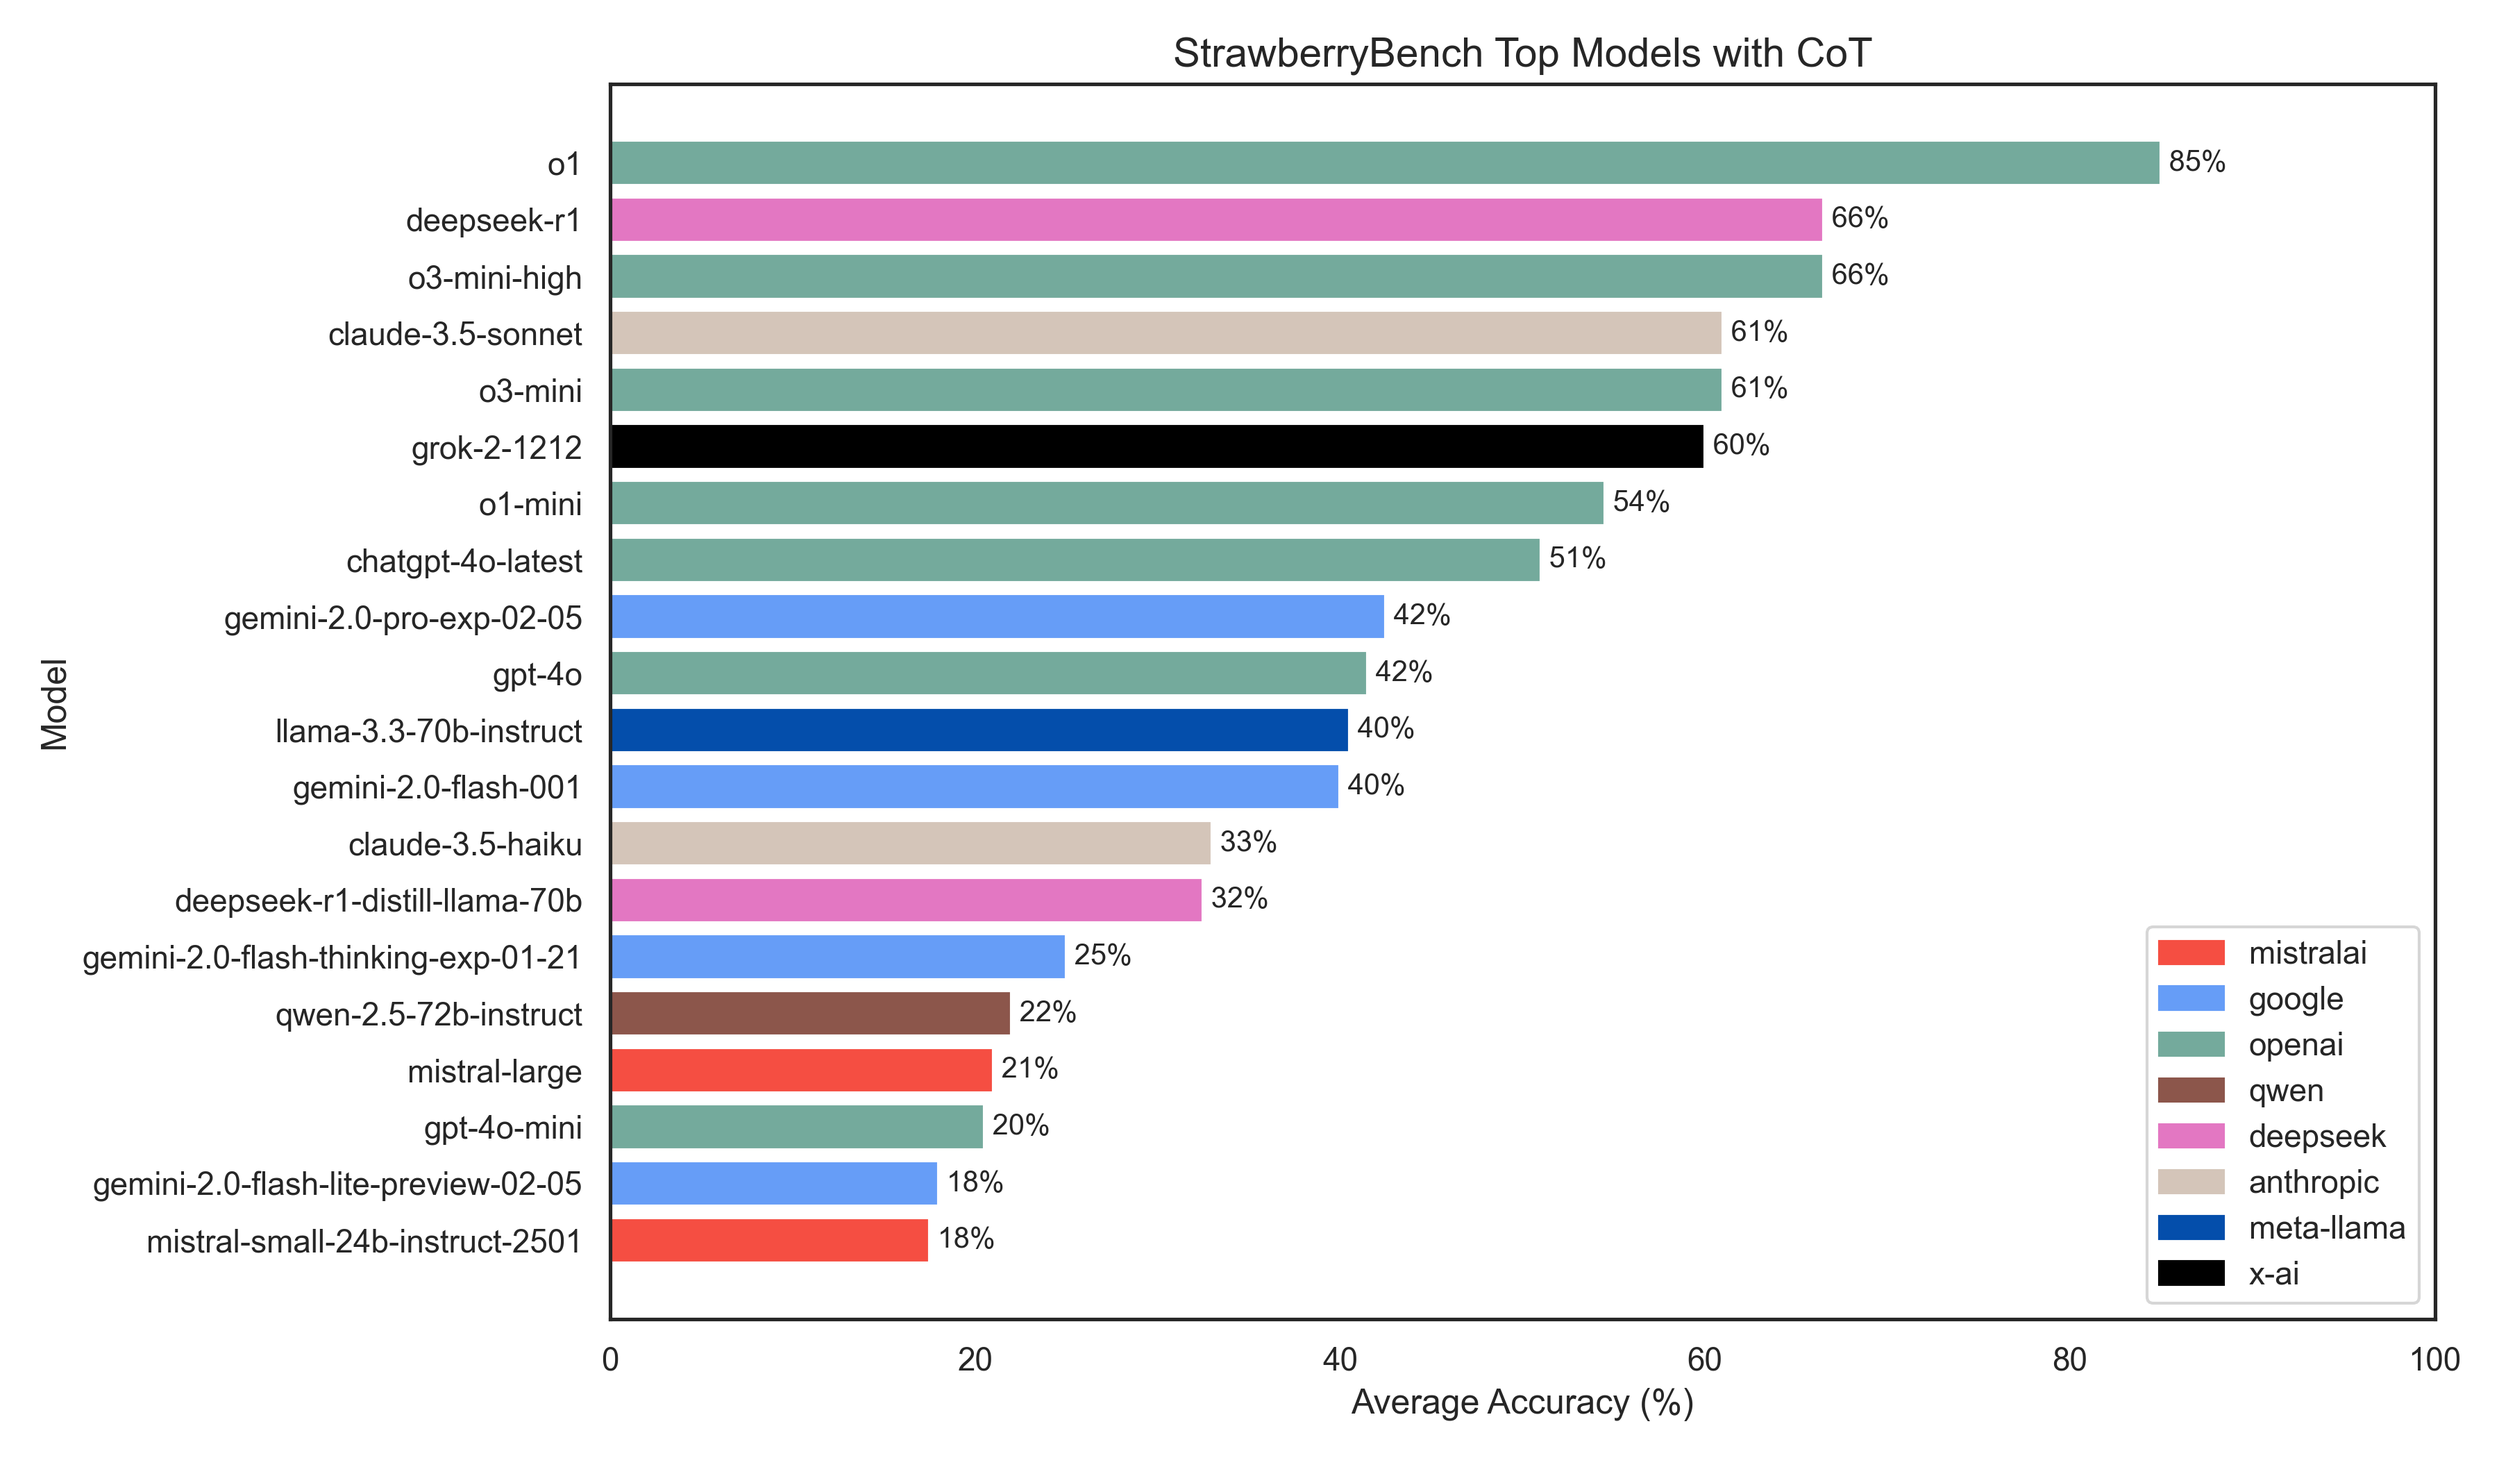
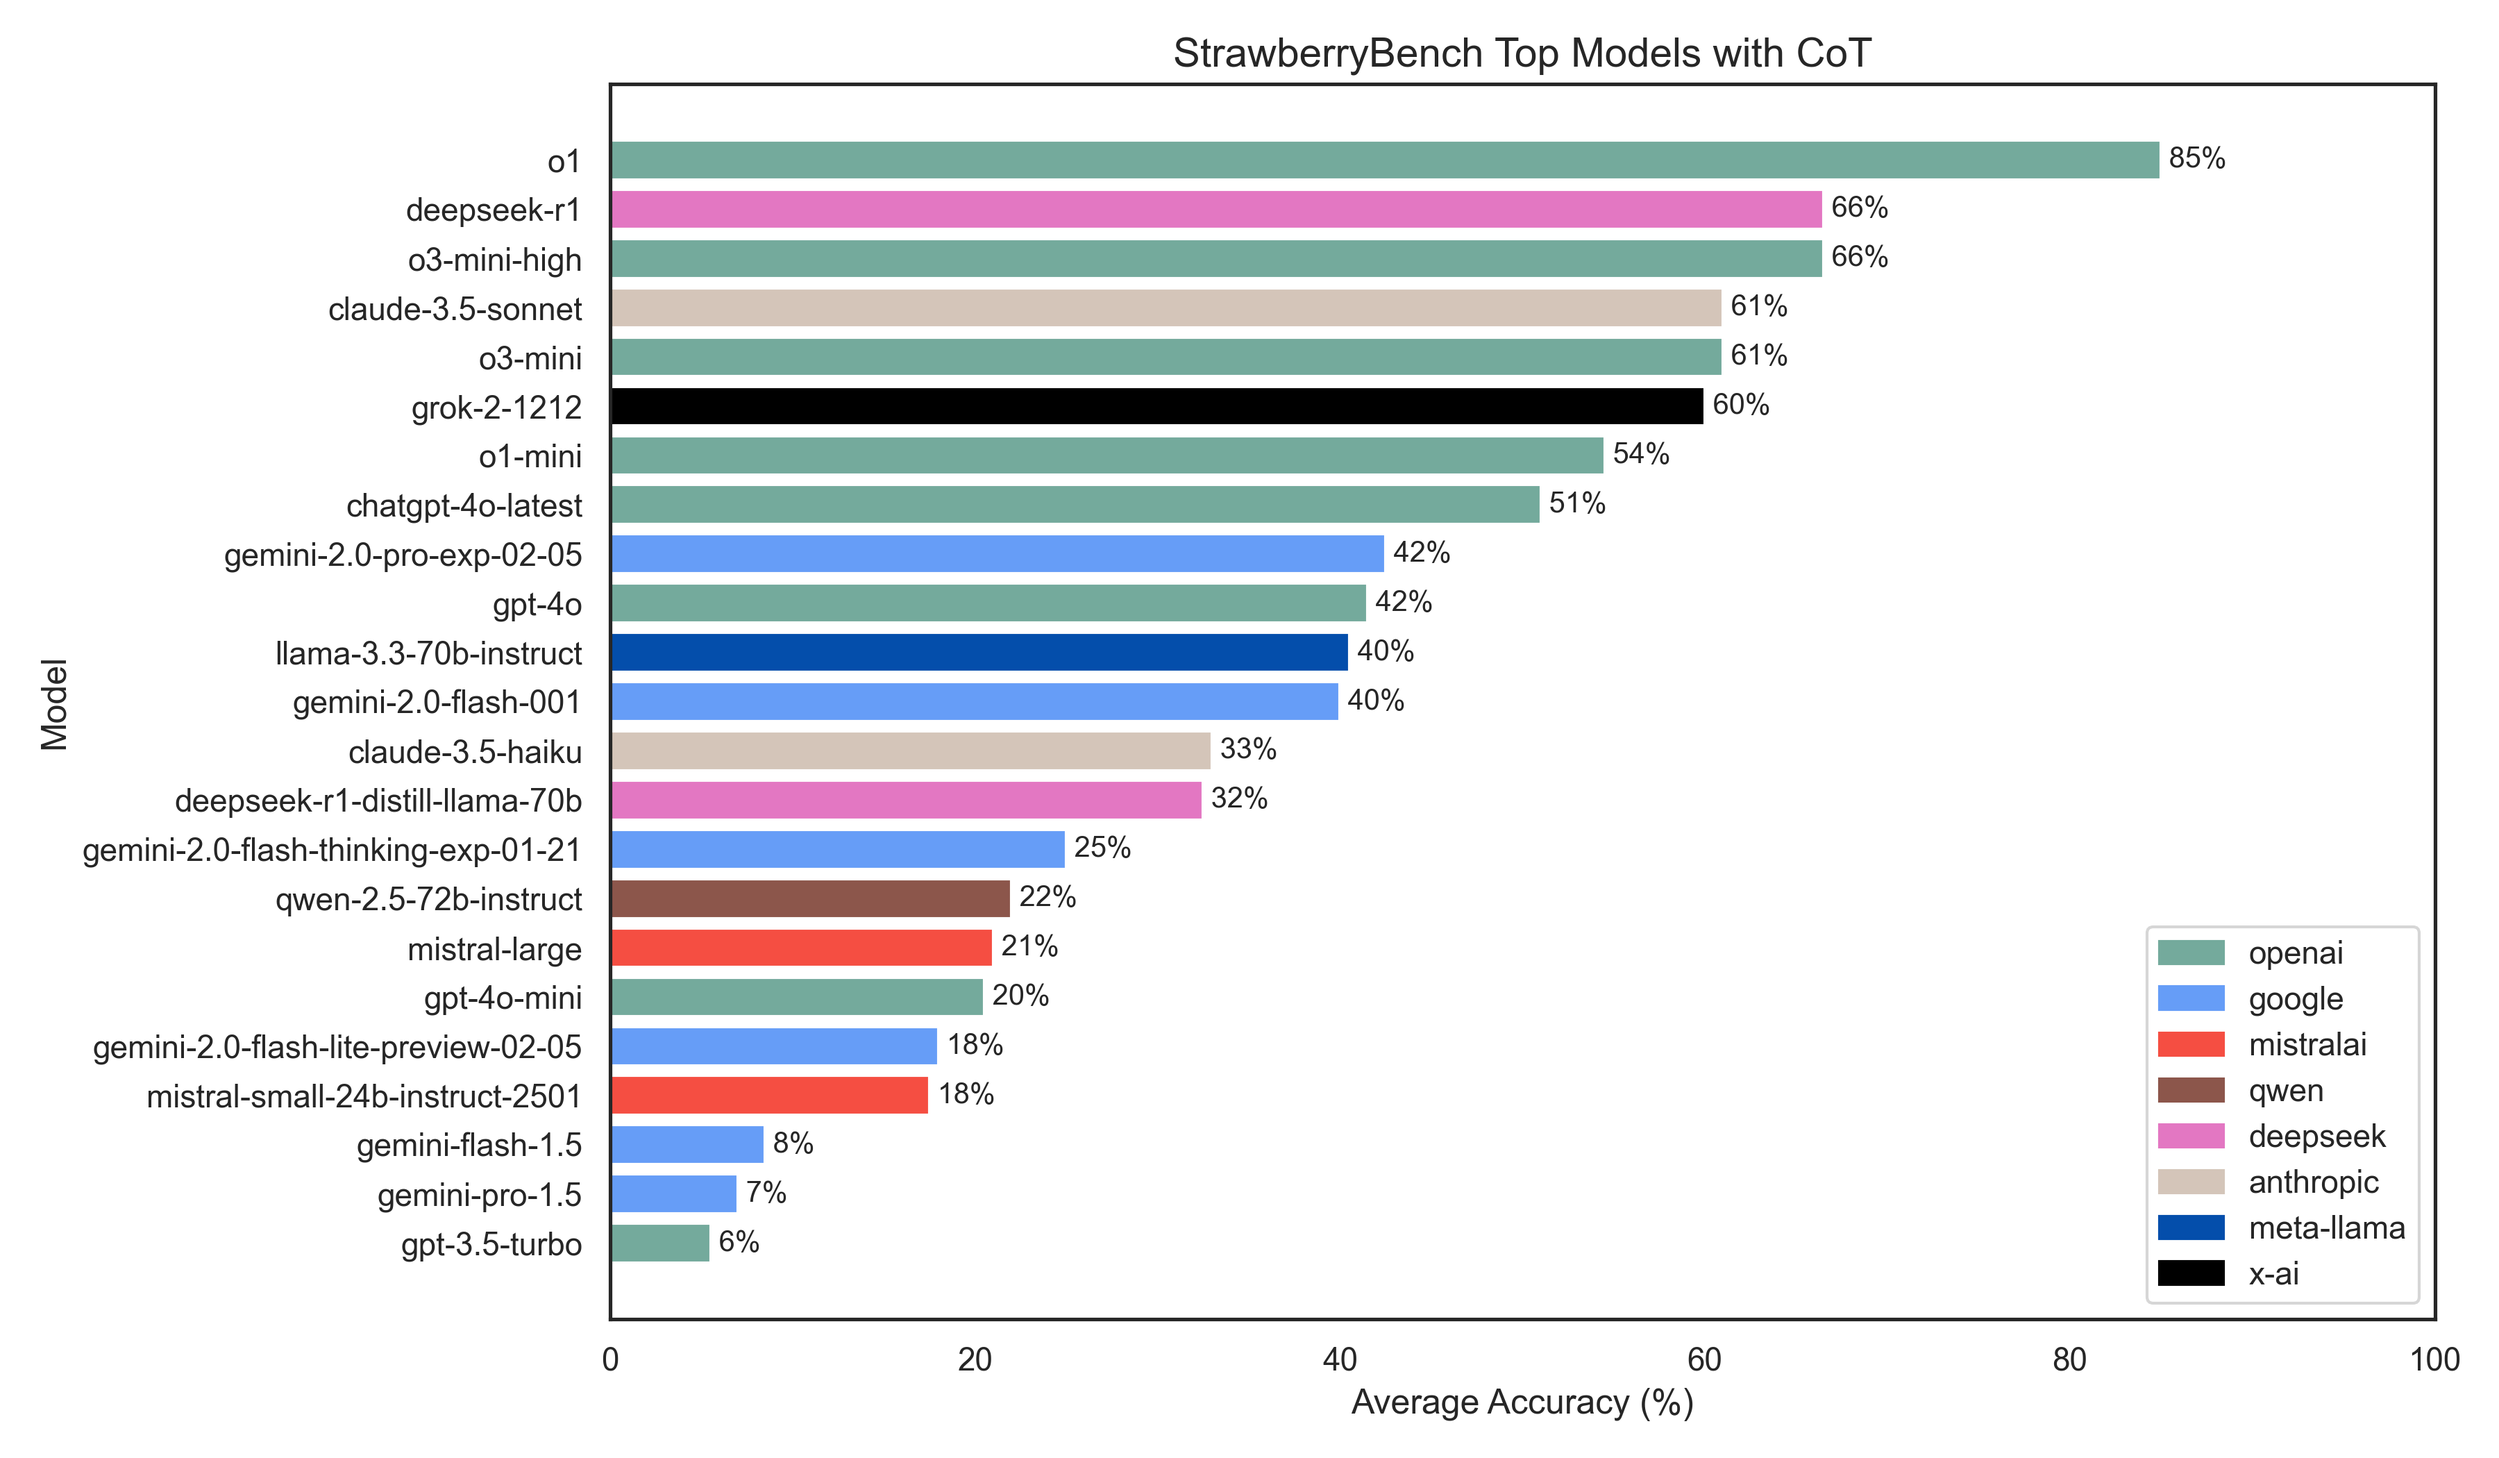
Update README.md

diff --git a/plot.py b/plot.py
@@ -33,7 +33,6 @@ def plot_heatmap(pivot_df, title, save_path=None, dpi=300):
 
 
 def plot_bar_chart(df, title, save_path=None, dpi=300):
-    # Define provider colors
     provider_colors = {
         'openai': '#74AA9C',
         'anthropic': '#D4C5B9',
@@ -45,26 +44,22 @@ def plot_bar_chart(df, title, save_path=None, dpi=300):
         'deepseek': '#E377C2',
     }
 
-    # Group by model to calculate the average accuracy
     grouped = df.groupby("model").agg(
         average_accuracy=("accuracy", "mean"),
         provider=("provider", "first")
     ).reset_index()
 
-    # Select the top 20 models by average accuracy
-    top_models = grouped.sort_values("average_accuracy", ascending=False).head(20)[::-1]
+    top_models = grouped.sort_values("average_accuracy", ascending=False)[::-1]
     colors = [provider_colors.get(provider.lower(), "#333333") for provider in top_models["provider"]]
 
     plt.figure(figsize=(12, 7))
     ax = plt.gca()
     bars = ax.barh(top_models["model"], top_models["average_accuracy"], color=colors)
 
-    # Add accuracy labels on each bar
     for bar in bars:
         width = bar.get_width()
         ax.text(width, bar.get_y() + bar.get_height() / 2, f' {width:.0f}%', va='center', ha='left', fontsize=10)
 
-    # Create legend
     legend_handles = [
         mpatches.Patch(color=provider_colors.get(provider.lower(), "#333333"), label=provider)
         for provider in top_models["provider"].unique()
@@ -85,15 +80,12 @@ def plot_bar_chart(df, title, save_path=None, dpi=300):
 def plot_all(json_filename, save_plots=False, dpi=300):
     df = pd.read_json(json_filename)
 
-    # Split provider and model from the 'model' field
     df["provider"] = df["model"].apply(lambda x: x.split("/")[0])
     df["model"] = df["model"].apply(lambda x: x.split("/")[-1])
 
-    # Split data based on whether chain-of-thought (CoT) is used
     df_cot = df[df["cot"]]
     df_nocot = df[~df["cot"]]
 
-    # Create a pivot table for heatmaps
     def create_pivot(sub_df):
         pivot = sub_df.pivot(index="model", columns="additional_rs", values="accuracy")
         pivot["average"] = pivot.mean(axis=1)
@@ -101,7 +93,6 @@ def plot_all(json_filename, save_plots=False, dpi=300):
 
     sns.set_theme(style="white")
 
-    # Plot for CoT records if available
     if not df_cot.empty:
         pivot_cot = create_pivot(df_cot)
         heatmap_save_path = "assets/heatmap_cot.png" if save_plots else None
@@ -111,7 +102,6 @@ def plot_all(json_filename, save_plots=False, dpi=300):
     else:
         print("No records with CoT. Skipping CoT plots.")
 
-    # Plot for non-CoT records if available
     if not df_nocot.empty:
         pivot_nocot = create_pivot(df_nocot)
         heatmap_save_path = "assets/heatmap_nocot.png" if save_plots else None

diff --git a/config.py b/config.py
@@ -56,8 +56,8 @@ MODELS = [
     # { "name": "google/gemini-1.5-pro-001", "provider": "google_vertex", "cot": False, "rate_limit": 30 },
     # { "name": "google/gemini-1.5-pro-001", "provider": "google_vertex", "cot": True, "rate_limit": 30 },
 
-    { "name": "google/gemini-2.0-flash-001", "provider": "google_vertex", "cot": False, "rate_limit": 500 },
-    { "name": "google/gemini-2.0-flash-001", "provider": "google_vertex", "cot": True, "rate_limit": 500 },
+    # { "name": "google/gemini-2.0-flash-001", "provider": "google_vertex", "cot": False, "rate_limit": 500 },
+    # { "name": "google/gemini-2.0-flash-001", "provider": "google_vertex", "cot": True, "rate_limit": 500 },
 
     # { "name": "google/gemini-2.0-flash-thinking-exp-01-21", "provider": "google_vertex", "cot": False, "rate_limit": 5 },
     # { "name": "google/gemini-2.0-flash-thinking-exp-01-21", "provider": "google_vertex", "cot": True, "rate_limit": 5 },
@@ -71,6 +71,6 @@ MODELS = [
 
 # The additional characters to insert in the word
 ADDITIONAL_RS = range(0, 10)
-ITERATIONS = 20
 
+ITERATIONS = 20
 TEMPERATURE = 1.0

diff --git a/client_google_vertex.py b/client_google_vertex.py
@@ -1,3 +1,4 @@
+import os
 import vertexai
 from vertexai.generative_models import GenerativeModel, GenerationConfig
 from retry import retry
@@ -9,8 +10,8 @@ class GoogleVertexClient:
             model = model.replace("google/", "")
 
         vertexai.init(
-            project='test-whisper-405815',
-            location='us-central1',
+            project=os.getenv("VERTEX_PROJECT_ID"),
+            location=os.getenv("VERTEX_LOCATION"),
         )
 
         self.rate_limiter = rate_limiter

diff --git a/README.md b/README.md
@@ -1,4 +1,4 @@
-# 🍓🍓🍓 StrawberryBench 🍓🍓🍓
+# 🍓 StrawberryBench 🍓
 
 StrawberryBench evaluates language models on a basic reasoning task: counting the `r` characters in a word `strawberry`.
 
@@ -32,39 +32,38 @@ While AI models excel at complex tasks, this benchmark highlights gaps in fundam
 
 ## 🍓 Observations
 
-- Reasoning models dominate the benchmark.
-- Chain-of-thought boosts performance in non-reasoning models.
-- Many models applied CoT without explicit prompting (GPT-4o+, Gemini 2.0 Flash, Claude, Mistral, Llama).
-- Models that skipped CoT and gave direct answers performed the worst (Gemini 1.5 Flash/Pro, Grok 2, Qwen 2.5).
-- StrawberryBench results align with other public benchmarks.
-  
+- Reasoning models lead the benchmark.
+- Chain-of-thought often improves results but not uniformly.
+- Many models applied CoT without explicit instructions (GPT-4o+, Gemini 2.0 Flash, Claude, Mistral, Llama).
+- Models that skipped CoT and gave direct answers tended to perform worse (Gemini 1.5 Flash/Pro, Grok 2, Qwen 2.5).
+- StrawberryBench shows a high-level correlation with other public benchmarks.
+- Overall, most models struggled to exceed 50% accuracy.
+
 ---
 
 - OpenAI's o1 leads by a wide margin.
 - DeepSeek's r1 results are impressive given its open-source nature and cost.
-- Google made major gains from Gemini 1.5 Flash to 2.0 Flash.
+- Google made major gains from 1.5 to 2.0 for both Flash and Pro.
 - Grok 2 and Claude 3.5 Sonnet saw the biggest CoT improvements.
-- Grok 2 occasionally hallucinated absurdly long reasoning chains with 200–300 `r`'s.
 
 ## 🍓 Criticism
 
 - _"This doesn't test real intelligence"_
-  - It evaluates how models process information, reason, and follow instructions - key aspects of intelligence.
+  - Indeed, but it evaluates how models process information, reason, and follow instructions - key aspects of intelligence.
 - _"Just prompt better or use tools"_
   - A strong model should generalize well and perform without excessive hand-holding.
 - _"This is just a tokenization issue"_
-  - Large-scale character-level models are impractical.
+  - That's partly why it's an interesting stress test.
 - _"Strict formatting rules are unfair"_
-    - A model that can't follow formatting risks failure in other tasks.
+  - A model that can't follow formatting will likely fail in other tasks.
 - _"Every model fails, so why test?"_
-  - New models are improving, and benchmarks track progress in reasoning capabilities.
+  - New models are improving, and benchmarks track their reasoning progress.
 - _"This distracts from bigger AI progress"_
   - Progress in science and engineering often comes from obsessing over what's not working.
 
 ## 🍓 Prerequisites
 
 - Python 3.x
-- OpenRouter API key
 
 ## 🍓 Installation
 
@@ -79,17 +78,19 @@ cd StrawberryBench
 
 ```bash
 python -m venv venv
-
-# source ./venv/bin/activate
-
+source ./venv/bin/activate
 pip install -r requirements.txt
 ```
 
-3. **Set your API key:**
+3. **Set your API keys:**
 
-StrawberryBench uses the OpenRouter API. Set your API key as an environment variable:
+Set your API keys and environment variables:
+
 ```bash
-export OPENROUTER_API_KEY="your_openrouter_api_key_here"
+export OPENROUTER_API_KEY="key"
+export OPENAI_API_KEY="key"
+export VERTEX_PROJECT_ID="vertex_project_id"
+export VERTEX_LOCATION="vertex_location"
 ```
 
 ## 🍓 Configuration
